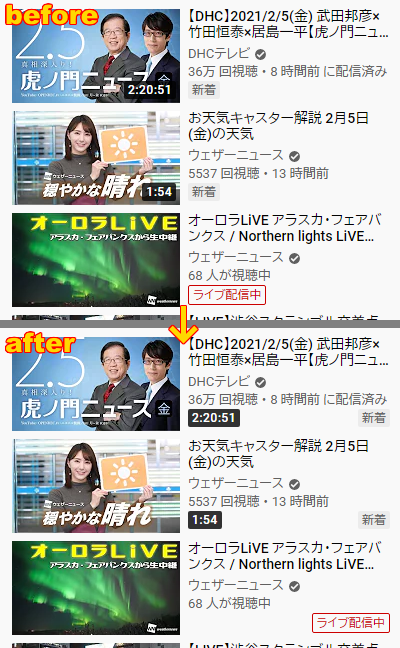
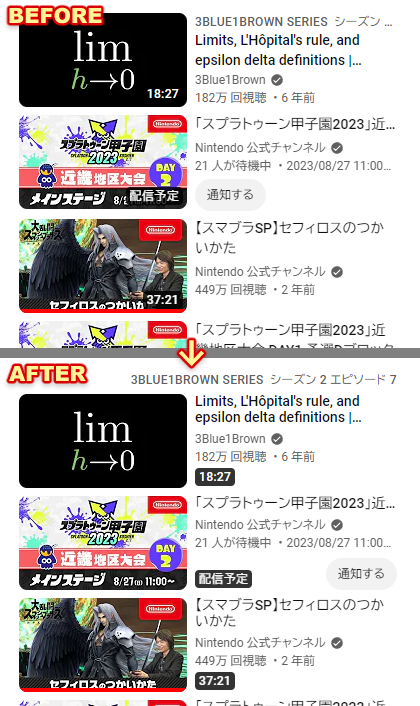
YT時どかし v1.3.0
* 「配信予定」状態のライブ配信に対応
* ライブ配信の視聴者が0人の場合に対応
* 公式のサムネイルの角丸化に対応
* シリーズ表示が崩れていたのを修正

diff --git a/README.md b/README.md
@@ -7,7 +7,7 @@ Stylus用UserCSS（森）
 
 | YouTubeLiveコメント一覧カスタム | YouTubeサムネ時間どかし |
 |:-------------------------------:|:-----------------------:|
-| <img src="readme-image/sample_YTbLv-CmntLst.png" alt="『YouTubeLiveコメント一覧カスタム』v1.2.0のスクリーンショット" title="YouTubeLiveコメント一覧カスタム - v1.2.0"> | <img src="readme-image/sample_YTb-ThmbTm.png" alt="『YouTubeサムネ時間どかし』v1.0.0のスクリーンショット" title="YouTubeサムネ時間どかし（v1.0.0）"> |
+| <img src="readme-image/sample_YTbLv-CmntLst.png" alt="『YouTubeLiveコメント一覧カスタム』v1.2.0のスクリーンショット" title="YouTubeLiveコメント一覧カスタム - v1.2.0"> | <img src="readme-image/sample_YTb-ThmbTm.png" alt="『YouTubeサムネ時間どかし』v1.3.0のスクリーンショット" title="YouTubeサムネ時間どかし - v1.3.0"> |
 
 𝓐𝓷𝓭 𝓜𝓸𝓻𝓮...
 
